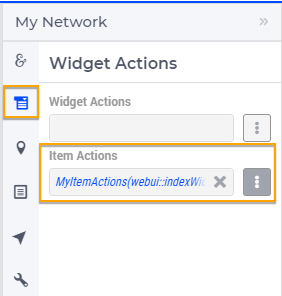
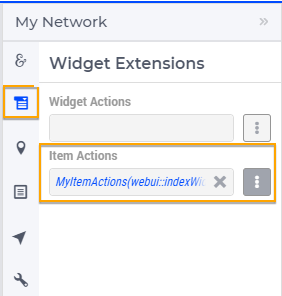
Added Item actions changes to each widget. Also changed Widget Actions to Widget Extensions. Changes made to all widgets that support Item actions except Line chart.

Changed region(s): [[0.3972, 0.1824, 0.7376, 0.2432], [0.1135, 0.2736, 0.1418, 0.3041]]

diff --git a/webui/widget-options.rst b/webui/widget-options.rst
@@ -737,7 +737,7 @@ Add the details for the widget actions you would like to show for the widget. Fo
 .. image:: images/WidgetActions_MyWidgetActionsdata_added.png
 			:align: center
 
-To activate the widget actions on a widget, go to the respective widget's settings by clicking on the |cog-widget| in the widget header. Click on the Widget Actions tab. Add the string parameter in the Widget Actions field using the identifier selector.
+To activate the widget actions on a widget, go to the respective widget's settings by clicking on the |cog-widget| in the widget header. Click on the Widget Extensions tab. Add the string parameter in the Widget Actions field using the identifier selector.
 
 .. image:: images/WidgetAction_StringParameter.png
 			:align: center 
@@ -778,7 +778,8 @@ In case you have a long displaytext for an action, the widget action menu will s
 Item Actions
 ------------
 
-.. important:: Item Actions are available in software versions from AIMMS 4.73 onwards as part of Experimental Features. Item Actions is currently available only for the Map widget. Please reach out to AIMMS support on how to enable Experimental Features.
+.. important:: 
+    Item Actions are available in software versions from AIMMS 4.74 onwards. 
 
 Item Actions are a set of actions/procedures that can be defined via the model and configured for identifiers that are specified for a widget. These item actions are displayed when the user performs a right-click on the data elements in the widget. Item actions are defined per identifier and the right-click item action menu only appears on the data element associated with that identifier.  
 
@@ -820,7 +821,7 @@ Similarly, you can add item actions to other identifiers as well. As illustrated
 .. image:: images/ItemActions_StringParameterDataIdentifier_Filled2.png
 			:align: center
 
-To activate the item actions on a widget, go to the respective widget's settings by clicking on the |cog-widget| in the widget header. Click on the Widget Actions tab. Add the string parameter in the Item Actions field using the identifier selector.
+To activate the item actions on a widget, go to the respective widget's settings by clicking on the |cog-widget| in the widget header. Click on the Widget Extensions tab. Add the string parameter in the Item Actions field using the identifier selector.
 
 .. image:: images/ItemActions_AddStringParameter.png
 			:align: center 
@@ -833,14 +834,23 @@ Once the string parameter is added, right-click on the element and the item acti
 
 In the illustration above, the two identifiers :token:`SupplyUSAWest(usw)` and :token:`DemandUSAEast(use)` are specified as the Size identifier for their respective node sets. Hence, you can see the respective item actions appear for the nodes. 
 
+.. important::
+    In the map widget, for node sets, you can configure the item action to either the identifier that will be specified as the Size of the node set or the set used to define the node set. If item actions have been defined for both the size identifier as well as for the set, the item actions configured for the size identifier will be considered.
+    For arc sets, item actions need to be defined on the identifier specified as the Value for the arc set. 
+
+    To configure Item Actions for the Gantt chart the actions should be added to the identifer that is used as the Duration property in the Gantt chart settings.
+    
+    To configure Item Actions for the Bubble chart the actions should be added to the identifer that is used as the Size property in the Bubble chart settings.
+
+You could also define different item actions for the same identifier but in two different string parameters and configure each of those string parameters to different widgets.
+
 .. note::
     For the right-click item action menu to appear you will need to ensure that the widget contains the identifier for which the item actions were configured in the string parameter.
 
 .. note::
-    In the map widget, for node sets, you can configure the item action to either the identifier that will be specified as the Size of the node set or the set used to define the node set. If item actions have been defined for both the size identifier as well as for the set, the item actions configured for the size identifier will be considered.
-    For arc sets, item actions need to be defined on the identifier specified as the Value for the arc set. 
+    Item Actions can be configured for the `Table <table-widget.html>`_, `Bar Chart <bar-chart-widget.html>`_, `Line Chart <line-chart-widget.html>`_, `Gantt Chart <gantt-chart-widget.html>`_, `Bubble Chart <bubble-chart-widget.html>`_, `Pie Chart <pie-chart-widget.html>`_, `Tree Map <tree-map-widget.html>`_, `Map <map-widget.html>`_ and `Scalar <scalar-widget.html>`_ widgets.
 
-You could also define different item actions for the same identifier but in two different string parameters and configure each of those string parameters to different widgets.
+
 
 Interacting with Item Actions
 +++++++++++++++++++++++++++++

diff --git a/webui/gantt-chart-widget.rst b/webui/gantt-chart-widget.rst
@@ -236,6 +236,20 @@ Please note that a selected task may be deselected by clicking again on it. More
 	
 .. note::
     When a selected task is deselected, the values of the element parameters which used to store the values for the selected task will not be emptied, but will keep storing the those values. This behavior is intended so by design.
+
+Widget Extensions
+-----------------
+
+In the Widget Extensions tab, it is possible to add the string parameters configured for the `Widget Actions <widget-options.html#widget-actions>`_ and the `Item Actions <widget-options.html#item-actions>`_ for the widget.
+
+.. image:: images/WidgetActions_GanttChart.png
+    :align: center
+
+.. image:: images/ItemActions_GanttChart.png
+    :align: center    
+
+.. note:: 
+    When configuring the string parameter for the Item Actions, the actions should be added to the identifer that is used as the Duration property in the Gantt chart settings in the Add Gantt Layer section.
 	
 Adding, deleting and modifying tasks
 ------------------------------------

diff --git a/webui/bubble-chart-widget.rst b/webui/bubble-chart-widget.rst
@@ -53,6 +53,20 @@ The bubble chart has some specific options that you can specify. These are locat
 * Y-axis label: the same, only this time for the Y-axis.
 * Size label: here you can specify a literal string or a model identifier to describe what piece of information is used as the bubble size. It is displayed in the top-right corner of your bubble chart.
 
+Widget Extensions
+-----------------
+
+In the Widget Extensions tab, it is possible to add the string parameters configured for the `Widget Actions <widget-options.html#widget-actions>`_ and the `Item Actions <widget-options.html#item-actions>`_ for the widget.
+
+.. image:: images/WidgetActions_BubbleChart.png
+    :align: center
+
+.. image:: images/ItemActions_BubbleChart.png
+    :align: center    
+
+.. note:: 
+    When configuring the string parameter for the Item Actions, the actions should be added to the identifer that is used as the Size property in the Bubble chart settings.
+
 Additional Remarks
 ------------------
 

diff --git a/webui/table-widget.rst b/webui/table-widget.rst
@@ -32,8 +32,7 @@ The table widget offers the user possibilities for various actions such as:
   * specifying reverse links on the ‘Store focus’ tab of the widget’s option editor. 
     When a cell has the focus in the table, the element parameter(s) that you specify here will be filled accordingly. Such element parameters may be used at the same time by other widgets, which will update automatically. Hence, the ‘Store focus’ functionality opens up various possibilities for interaction between the widgets.
   * specify various `identifier settings <widget-options.html#identifier-settings>`_; in particular, specifying display domain, slicing, or expanding indexes
-  
-*
+  * specify `Widget Actions <widget-options.html#widget-actions>`_ and the `Item Actions <widget-options.html#item-actions>`_ 
             
 * Save the table data to a .csv file by using the `Download Table Data <#download-table-data>`_ functionality, see below.
 

diff --git a/webui/pie-chart-widget.rst b/webui/pie-chart-widget.rst
@@ -71,6 +71,17 @@ For instance, we can slice our factory index f to the fixed element 'Zurich' in 
 Similarly, one could slice the index f to an element parameter CurrentFactory having the declared range the set Factories (where the value of CurrentFactory may be determined from within the model
 or by a choice made through another widget in the user interface). 
 
+Widget Extensions
+-----------------
+
+In the Widget Extensions tab, it is possible to add the string parameters configured for the `Widget Actions <widget-options.html#widget-actions>`_ and the `Item Actions <widget-options.html#item-actions>`_ for the widget.
+
+.. image:: images/WidgetActions_PieChart.png
+    :align: center
+
+.. image:: images/ItemActions_PieChart.png
+    :align: center    
+
 Hover and Select
 ----------------
 

diff --git a/webui/map-widget.rst b/webui/map-widget.rst
@@ -42,7 +42,7 @@ In the settings options editor one can find the following sections:
 
 *	|nodeset| Node Sets: Multiple node sets can be added here.
 *	|arcset| Arc Sets: Multiple arc sets can be added here.
-*	|widgetactionicon| Widget Actions: `Widget actions <widget-options.html#widget-actions>`_ and `Item actions <widget-options.html#item-actions>`_ can be configured here.
+*	|widgetactionicon| Widget Extensions: `Widget actions <widget-options.html#widget-actions>`_ and `Item actions <widget-options.html#item-actions>`_ can be configured here.
 *	|heatmap| Heatmap: A heatmap can be added here. 
 *	|miscicon| Miscellaneous: Title, Zoom, Center Latitude, Center Longitude and Visibility can be controlled here.
 *	|advicon| Advanced: Advanced options for this widget are available here.

diff --git a/webui/tree-map-widget.rst b/webui/tree-map-widget.rst
@@ -59,6 +59,17 @@ In the Identifier Settings tab of the widget's options editor, one can apply a d
 
 These functionalities work in the same way as for other widgets, e.g.. the same way as for the bar chart widget.
 
+Widget Extensions
+-----------------
+
+In the Widget Extensions tab, it is possible to add the string parameters configured for the `Widget Actions <widget-options.html#widget-actions>`_ and the `Item Actions <widget-options.html#item-actions>`_ for the widget.
+
+.. image:: images/WidgetActions_TreeMapChart.png
+    :align: center
+
+.. image:: images/ItemActions_TreeMapChart.png
+    :align: center   
+
 Hover and Select
 ----------------
 

diff --git a/webui/bar-chart-widget.rst b/webui/bar-chart-widget.rst
@@ -112,6 +112,17 @@ When a bar has been selected, the user may still hover over another bar and insp
 .. image:: images/BarChart-ViewHover.png
     :align: center
 
+Widget Extensions
+-----------------
+
+In the Widget Extensions tab, it is possible to add the string parameters configured for the `Widget Actions <widget-options.html#widget-actions>`_ and the `Item Actions <widget-options.html#item-actions>`_ for the widget.
+
+.. image:: images/WidgetActions_BarChart.png
+    :align: center
+
+.. image:: images/ItemActions_BarChart.png
+    :align: center    
+
 Miscellaneous
 ----------------
 
